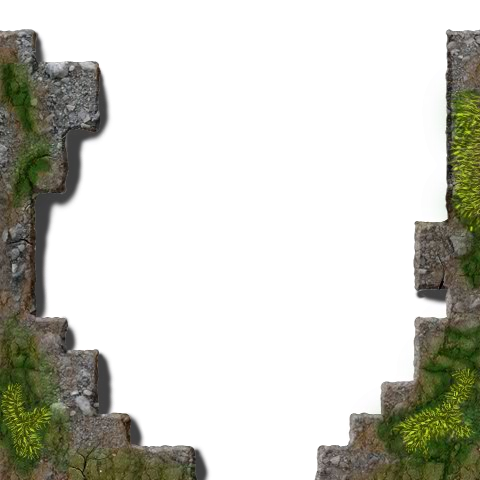
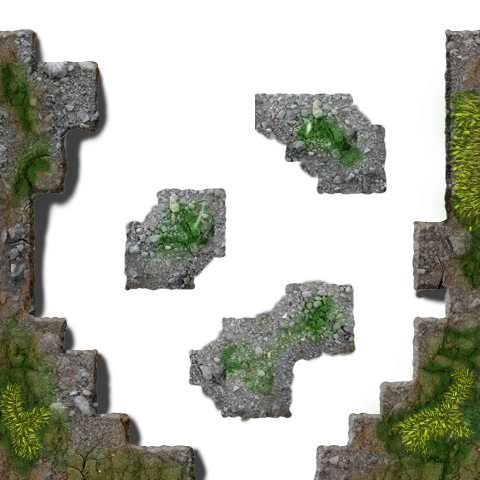
add animated water

diff --git a/main.py b/main.py
@@ -20,7 +20,7 @@ from utils import timestr
 from waves import Wave, WaveMaker
 
 
-SCREEN_TITLE = "Viking Defense Reforged v0.7.2 Dev"
+SCREEN_TITLE = "Viking Defense Reforged v0.7.3 Dev"
 
 
 def init_outlined_text(text, start_x, start_y, font_size=13, font_name="impact"):
@@ -43,7 +43,7 @@ def init_outlined_text(text, start_x, start_y, font_size=13, font_name="impact")
 class GameWindow(arcade.Window):
     def __init__(self):
         super().__init__(SCREEN_WIDTH, SCREEN_HEIGHT, SCREEN_TITLE)
-        arcade.set_background_color(arcade.color.ORANGE)
+        arcade.set_background_color((255, 255, 255))
         self.enemies_list = arcade.SpriteList()
         self.towers_list = arcade.SpriteList()
         self.projectiles_list = arcade.SpriteList()
@@ -78,6 +78,8 @@ class GameWindow(arcade.Window):
         self.range_preview.append_texture(load_texture('./images/TowerRange.png'))
         self.range_preview.append_texture(load_texture('./images/AbilityRange.png'))
         self.range_preview.set_texture(0)
+        self.water_shimmer_ind = 0 
+        self.water_shimmer_timer = 0.04
 
     def read_score_file(self):
         self.best_waves = []
@@ -101,9 +103,10 @@ class GameWindow(arcade.Window):
             self.maps_beaten += 1
 
     def setup(self, map_number: int = 1, is_freeplay: bool = False):
-        arcade.set_background_color(arcade.color.ORANGE)
         self.map_number = map_number
-        self.map_image = None
+        self.map_water_static = None
+        self.map_water_animation = None
+        self.map_land = None
         self.is_freeplay = is_freeplay
         self.read_score_file()
         self.wave_is_happening = False
@@ -266,8 +269,27 @@ class GameWindow(arcade.Window):
 
         # load the map image, if it exists
         if self.map_number > 0:
-            self.map_image = arcade.load_texture('./images/map'+str(self.map_number)+'.png')
-            self.map_land_only_image = arcade.load_texture('./images/map'+str(self.map_number)+'LandOnly.png')
+            self.map_water_animation = arcade.Sprite(
+                center_x=MAP_WIDTH/2,
+                center_y=CHIN_HEIGHT+MAP_HEIGHT/2
+            )
+            for k in range(24):
+                self.map_water_animation.append_texture(arcade.load_texture('./images/water_shimmer/'+str(k+1)+'.png'))
+            self.map_water_animation.set_texture(0)
+
+            self.map_water_static = arcade.Sprite(
+                center_x=MAP_WIDTH/2,
+                center_y=CHIN_HEIGHT+MAP_HEIGHT/2,
+                texture=arcade.load_texture('./images/map'+str(self.map_number)+'-water.png')
+            )
+
+            self.map_land = arcade.Sprite(
+                center_x=MAP_WIDTH/2,
+                center_y=CHIN_HEIGHT+MAP_HEIGHT/2,
+                texture=arcade.load_texture('./images/map'+str(self.map_number)+'LandOnly.png')
+            )
+        self.water_shimmer_ind = 0 
+        self.water_shimmer_timer = 0.04
 
         self.abilities_list[2] = PlatformAbility(map_reference=self.map_cells)
 
@@ -586,22 +608,15 @@ class GameWindow(arcade.Window):
     # draw sub-methods used to make self.on_draw more legible
     def draw_map_background(self):
         if self.map_number > 0:
-            arcade.draw_scaled_texture_rectangle(
-                center_x=MAP_WIDTH/2,
-                center_y=CHIN_HEIGHT+MAP_HEIGHT/2,
-                texture=self.map_image
-            )
+            self.map_water_static.draw()
+            self.map_water_animation.draw(blend_function=(self.ctx.DST_COLOR, self.ctx.SRC_COLOR))
         else:
             # draw the map using colored rectangles representing terrain type of each cell
             self.map_shape_list.draw()
 
     def draw_map_land(self):
         if self.map_number > 0:
-            arcade.draw_scaled_texture_rectangle(
-                center_x=MAP_WIDTH/2,
-                center_y=CHIN_HEIGHT+MAP_HEIGHT/2,
-                texture=self.map_land_only_image
-            )
+            self.map_land.draw()
         self.platforms.draw()
 
     def draw_range(self, tower):
@@ -899,6 +914,14 @@ class GameWindow(arcade.Window):
             self.paused = True
             return
         ret = super().on_update(delta_time)
+
+        # update some animations
+        self.water_shimmer_timer -= delta_time
+        if self.water_shimmer_timer <= 0:
+            self.water_shimmer_ind = (self.water_shimmer_ind + 1) % 24
+            self.map_water_animation.set_texture(self.water_shimmer_ind)
+            while self.water_shimmer_timer <= 0:
+                self.water_shimmer_timer += 0.04
 
         # check if any shop item is selected
         self.shop_item_selected = 0
